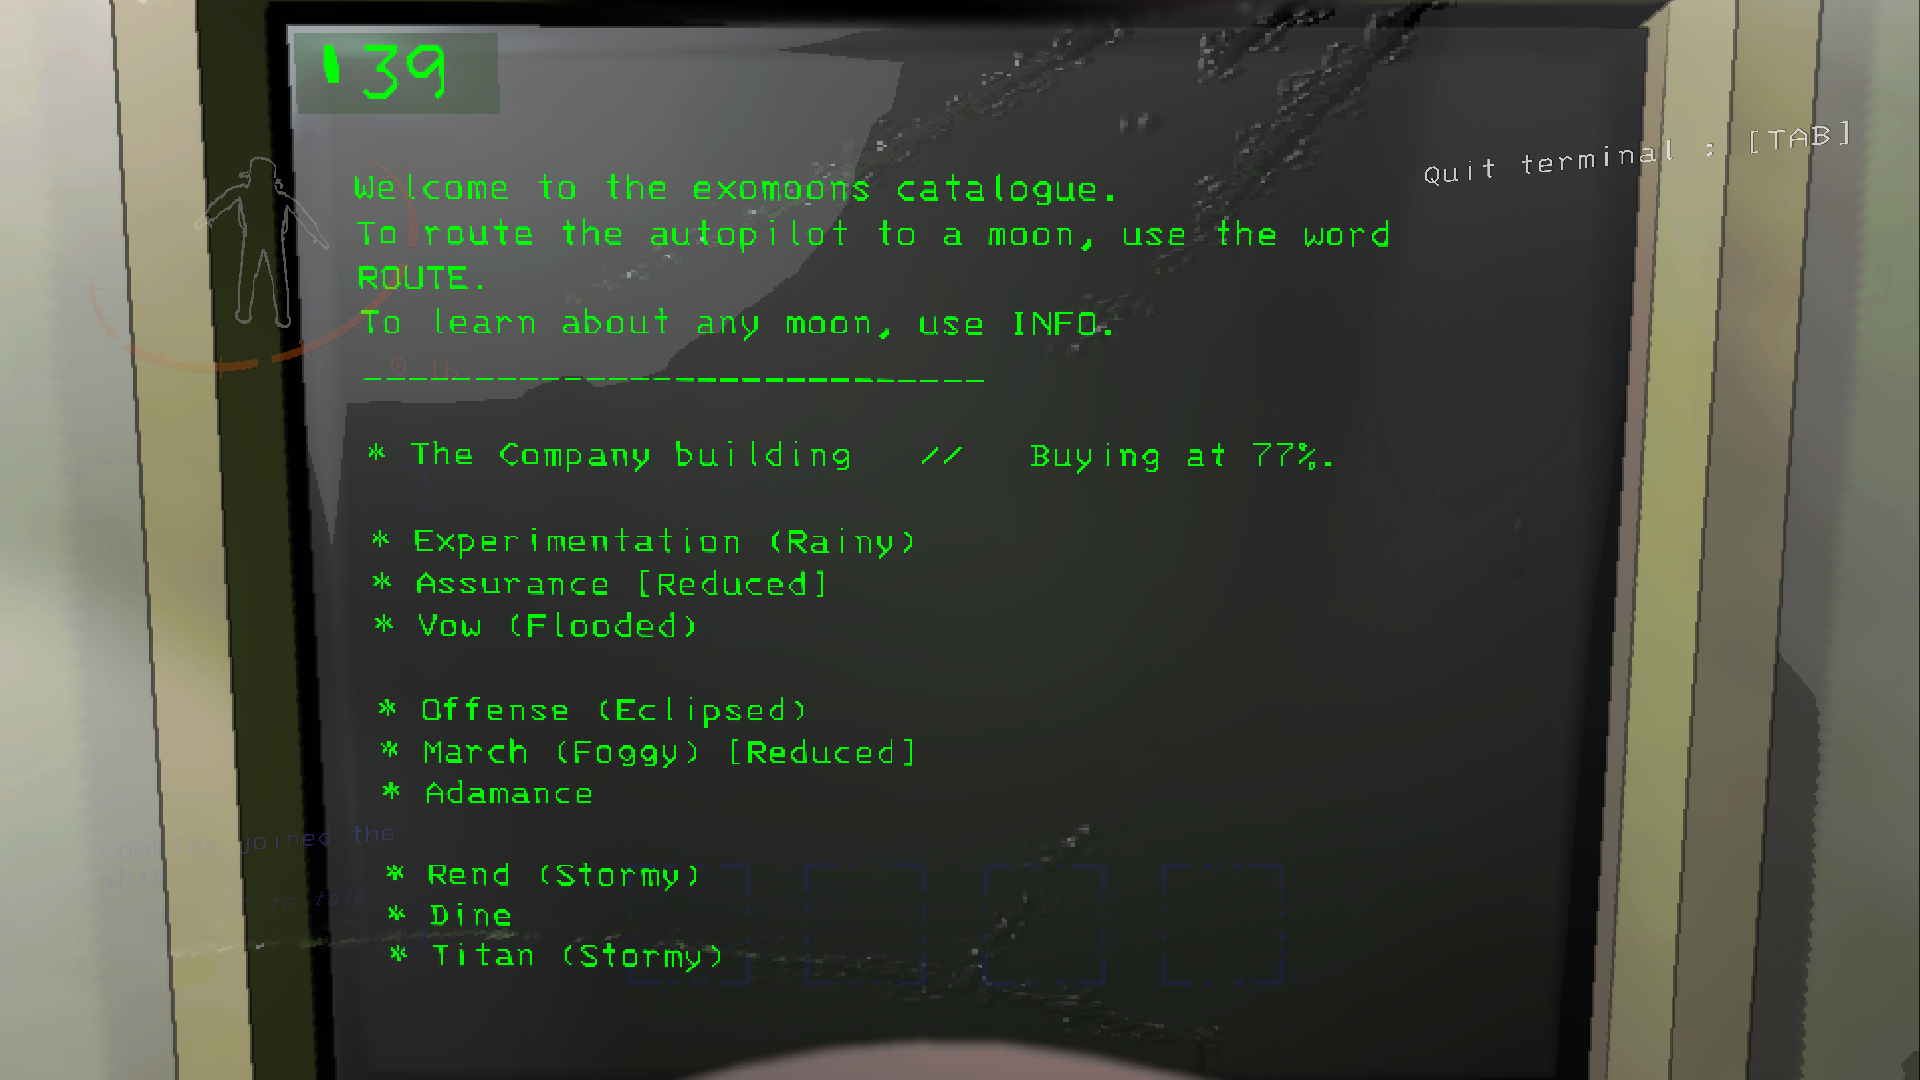
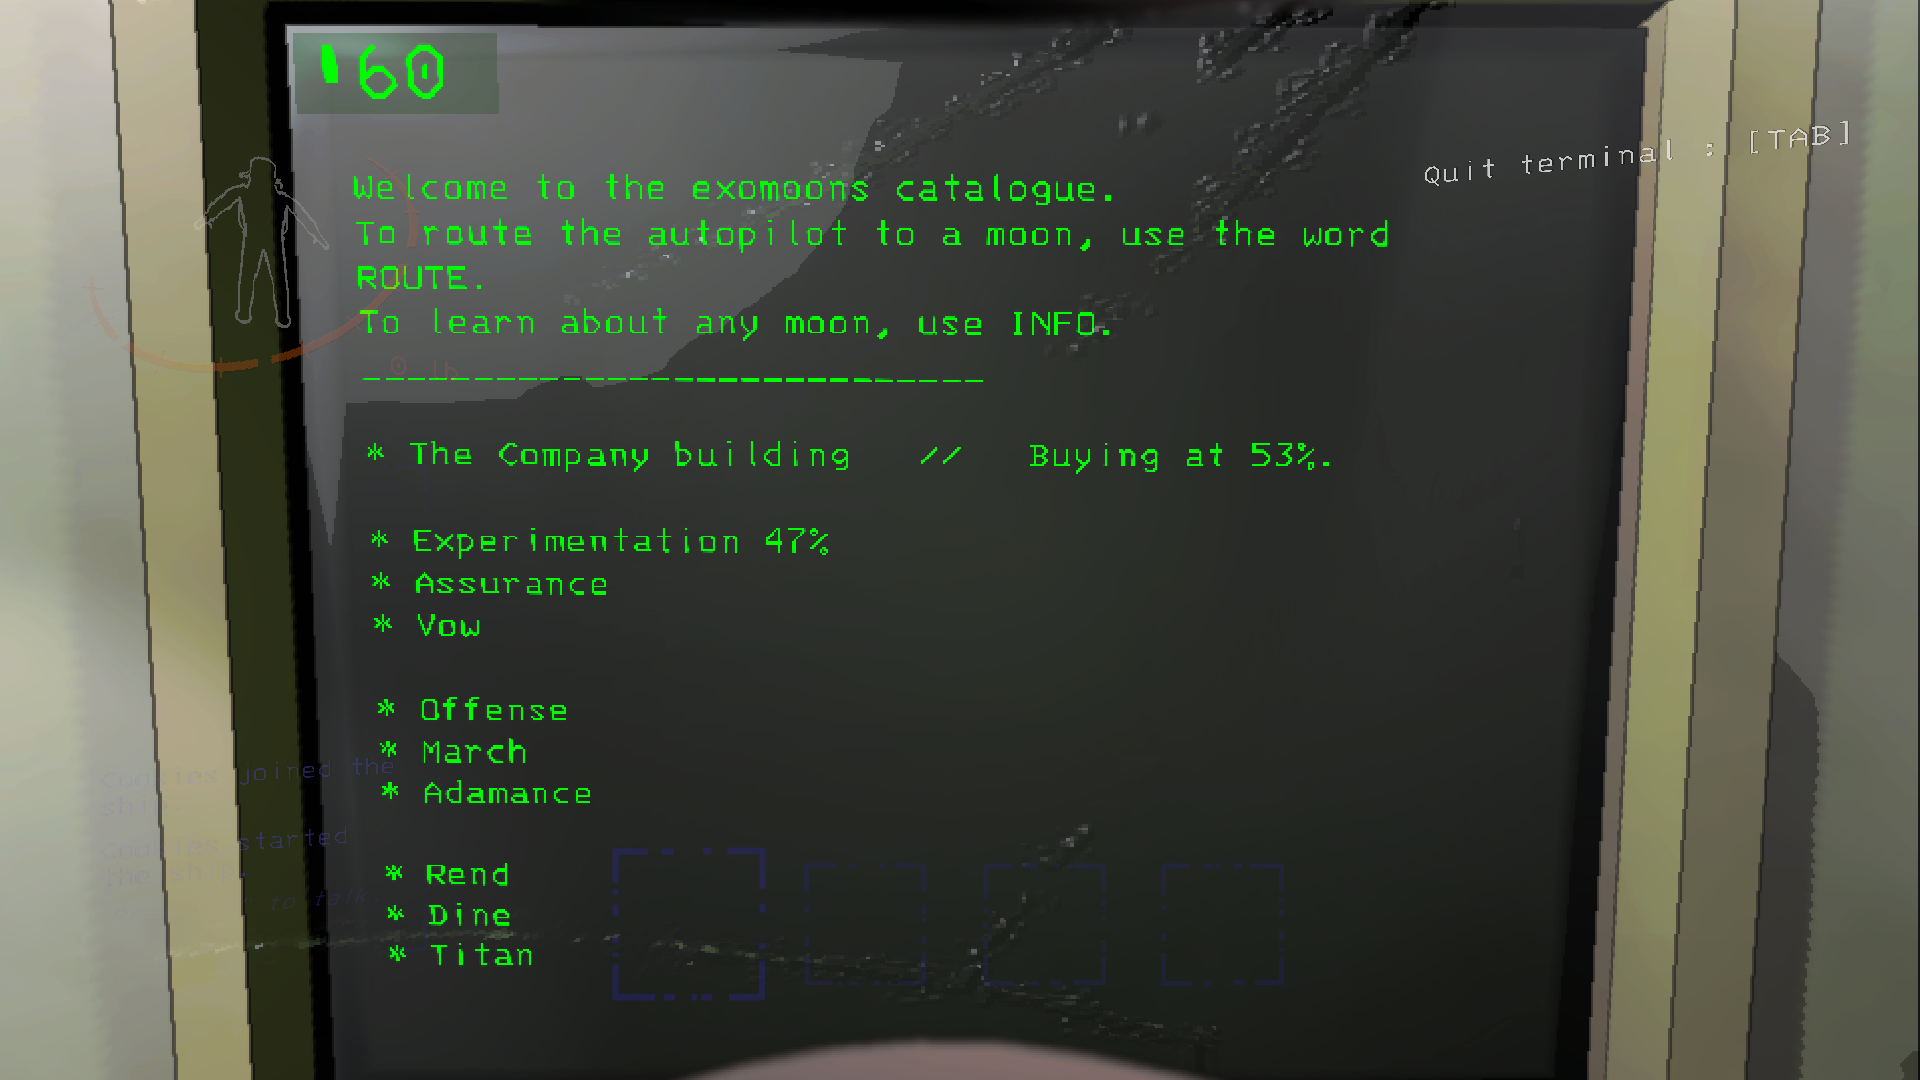
I probably shouldn't commit this many changes at once, huh?

diff --git a/DeminishingReturns/Patches/StartOfRoundPatch.cs b/DeminishingReturns/Patches/StartOfRoundPatch.cs
@@ -1,5 +1,9 @@
 using HarmonyLib;
 using BepInEx.Configuration;
+using System;
+using System.Collections.Generic;
+using System.Linq;
+using UnityEngine;
 
 namespace DeminishingReturns.Patches;
 
@@ -12,41 +16,42 @@ public class StartOfRoundPatch
     {
         if (__instance.IsServer && __instance.inShipPhase)
         {
-            if (DeminishingReturns.recentMoonsSave.Contains(__instance.currentLevel.levelID))
+            if (!DeminishingReturns.moonMultipliers.ContainsKey(__instance.currentLevel.levelID))
             {
-                RoundManager.Instance.scrapAmountMultiplier = Config.deminishedScrapMultiplier.Value;
+                DeminishingReturns.moonMultipliers[__instance.currentLevel.levelID] = 1.0f;
             }
-            else
-            {
-                RoundManager.Instance.scrapAmountMultiplier = 1f;
-            }
+            RoundManager.Instance.scrapAmountMultiplier = DeminishingReturns.moonMultipliers[__instance.currentLevel.levelID];
         }
     }
 
     [HarmonyPatch("EndOfGame")]
     [HarmonyPrefix]
-    private static void recordRecentMoons(StartOfRound __instance)
+    private static void setMoonMultipliers(StartOfRound __instance)
     {
         if (__instance.IsServer)
         {
-            if (__instance.currentLevel.PlanetName == "71 Gordion")
+            if (__instance.currentLevel.planetHasTime)
             {
-                DeminishingReturns.Logger.LogDebug("Not marking this moon as recent because it is the company building");
-            }
-            else
-            {
-                DeminishingReturns.recentMoonsSave.Enqueue(__instance.currentLevel.levelID);
-            }
-            while (DeminishingReturns.recentMoonsSave.Count > Config.recentMoonCount.Value)
-            {
-                DeminishingReturns.recentMoonsSave.Dequeue();
+                var keys = DeminishingReturns.moonMultipliers.Keys.ToList();
+                foreach (var key in keys)
+                {
+                    var value = DeminishingReturns.moonMultipliers[key];
+                    value += Config.dailyRegen.Value;
+                    value = Mathf.Clamp(value, 0.0f, 1.0f);
+                    DeminishingReturns.moonMultipliers[key] = value;
+                }
+                if (!__instance.allPlayersDead)
+                {
+                    DeminishingReturns.moonMultipliers[__instance.currentLevel.levelID] -= (float)RoundManager.Instance.valueOfFoundScrapItems / RoundManager.Instance.totalScrapValueInLevel;
+                    DeminishingReturns.moonMultipliers[__instance.currentLevel.levelID] = Mathf.Clamp(DeminishingReturns.moonMultipliers[__instance.currentLevel.levelID], 0.0f, 1.0f);
+                }
             }
             if (Config.resetAfterQuota.Value && ((float)(TimeOfDay.Instance.profitQuota - TimeOfDay.Instance.quotaFulfilled) <= 0f || __instance.isChallengeFile))
             {
-                DeminishingReturns.recentMoonsSave.Clear();
-                DeminishingReturns.Logger.LogDebug("Cleared recent moons list");
+                DeminishingReturns.moonMultipliers.Clear();
+                DeminishingReturns.Logger.LogDebug("Cleared moon multipliers");
             }
-            DeminishingReturns.recentMoons.Value = DeminishingReturns.recentMoonsSave;
+            DeminishingReturns.moonMultipliersNet.Value = DeminishingReturns.moonMultipliers; //This triggers a sync for the network variable
         }
     }
 }

diff --git a/DeminishingReturns/Patches/TerminalPatch.cs b/DeminishingReturns/Patches/TerminalPatch.cs
@@ -16,26 +16,10 @@ public class TerminalPatch
             Regex regex = new Regex(Regex.Escape("[planetTime]"));
             for (int i = 0; i < num && __instance.moonsCatalogueList.Length > i; i++)
             {
-                string replacement = ((GameNetworkManager.Instance.isDemo && __instance.moonsCatalogueList[i].lockedForDemo) ? "(Locked)" : ((__instance.moonsCatalogueList[i].currentWeather != LevelWeatherType.None) ? ("(" + __instance.moonsCatalogueList[i].currentWeather.ToString() + ")") : "") + ((DeminishingReturns.recentMoons.Value.Contains(__instance.moonsCatalogueList[i].levelID)) ? "[Reduced]" : ""));
-                replacement = replacement.Replace(")[", ") [");
+                float multiplier = DeminishingReturns.moonMultipliers.ContainsKey(__instance.moonsCatalogueList[i].levelID) ? DeminishingReturns.moonMultipliers[__instance.moonsCatalogueList[i].levelID] : 1.0f;
+                string replacement = ((GameNetworkManager.Instance.isDemo && __instance.moonsCatalogueList[i].lockedForDemo) ? "(Locked)" : ((__instance.moonsCatalogueList[i].currentWeather != LevelWeatherType.None) ? ("(" + __instance.moonsCatalogueList[i].currentWeather.ToString() + ") ") : "") + (multiplier < 1.0 ? string.Format("{0:N0}%", multiplier * 100.0) : ""));
                 modifiedDisplayText = regex.Replace(modifiedDisplayText, replacement, 1);
             }
-        }
-        try
-        {
-            if (node.displayPlanetInfo != -1)
-            {
-                string replacement = ((StartOfRound.Instance.levels[node.displayPlanetInfo].currentWeather != LevelWeatherType.None) ? (StartOfRound.Instance.levels[node.displayPlanetInfo].currentWeather.ToString().ToLower() ?? "") : "mild weather");
-                modifiedDisplayText = modifiedDisplayText.Replace("[currentPlanetTime]", replacement);
-                if (DeminishingReturns.recentMoons.Value.Contains(StartOfRound.Instance.levels[node.displayPlanetInfo].levelID))
-                {
-                    modifiedDisplayText = modifiedDisplayText.Insert(modifiedDisplayText.LastIndexOf('\n', modifiedDisplayText.Length - 4), "\nThis moon has been visited recently; expect less scrap.\n");
-                }
-            }
-        }
-        catch
-        {
-            DeminishingReturns.Logger.LogDebug($"Exception occured on terminal while setting node planet info; current node displayPlanetInfo:{node.displayPlanetInfo}");
         }
     }
 }

diff --git a/DeminishingReturns/DeminishingReturns.cs b/DeminishingReturns/DeminishingReturns.cs
@@ -16,6 +16,7 @@ namespace DeminishingReturns;
 [LobbyCompatibility(CompatibilityLevel.Everyone, VersionStrictness.Minor)]
 [BepInDependency("MaxWasUnavailable.LethalModDataLib", BepInDependency.DependencyFlags.HardDependency)]
 [BepInDependency("LethalNetworkAPI", BepInDependency.DependencyFlags.HardDependency)]
+[BepInDependency("imabatby.lethallevelloader", BepInDependency.DependencyFlags.SoftDependency)]
 public class DeminishingReturns : BaseUnityPlugin
 {
     public static DeminishingReturns Instance { get; private set; } = null!;
@@ -25,8 +26,8 @@ public class DeminishingReturns : BaseUnityPlugin
     public static Config MyConfig { get; internal set; }
 
     [ModData(SaveWhen.OnAutoSave, LoadWhen.OnLoad, SaveLocation.CurrentSave, ResetWhen.OnGameOver)]
-    public static Queue<int> recentMoonsSave = new Queue<int>();
-    public static LethalNetworkVariable<Queue<int>> recentMoons = new LethalNetworkVariable<Queue<int>>(identifier: "recentMoons") { Value = recentMoonsSave };
+    public static Dictionary<int, float> moonMultipliers = new Dictionary<int, float>();
+    public static LethalNetworkVariable<Dictionary<int, float>> moonMultipliersNet = new LethalNetworkVariable<Dictionary<int, float>>(identifier: "moonMultipliers") { Value = moonMultipliers };
 
     private void Awake()
     {
@@ -34,16 +35,10 @@ public class DeminishingReturns : BaseUnityPlugin
         Instance = this;
 
         MyConfig = new(base.Config);
-        recentMoons.OnValueChanged += NewValue;
 
         Patch();
 
         Logger.LogInfo($"{MyPluginInfo.PLUGIN_GUID} v{MyPluginInfo.PLUGIN_VERSION} has loaded!");
-    }
-
-    private void NewValue(Queue<int> newValue)
-    {
-        Logger.LogDebug("Synced!");
     }
 
     internal static void Patch()
@@ -53,6 +48,11 @@ public class DeminishingReturns : BaseUnityPlugin
         Logger.LogDebug("Patching...");
 
         Harmony.PatchAll();
+
+        if (BepInEx.Bootstrap.Chainloader.PluginInfos.ContainsKey("imabatby.lethallevelloader"))
+        {
+            Patches.LLLTerminalPatch.Init();
+        }
 
         Logger.LogDebug("Finished patching!");
     }

diff --git a/DeminishingReturns/Config.cs b/DeminishingReturns/Config.cs
@@ -2,29 +2,22 @@ using BepInEx.Configuration;
 
 public class Config
 {
-        public static ConfigEntry<float> deminishedScrapMultiplier;
-        public static ConfigEntry<int> recentMoonCount;
         public static ConfigEntry<bool> resetAfterQuota;
+        public static ConfigEntry<float> dailyRegen;
 
         public Config(ConfigFile cfg)
         {
-                deminishedScrapMultiplier = cfg.Bind(
-                        "General",
-                        "DeminishedScrapMultiplier",
-                        0.5f,
-                        "Multiplier for scrap amounts on deminished moons"
-                );
-                recentMoonCount = cfg.Bind(
-                        "General",
-                        "RecentMoonCount",
-                        3,
-                        "How many days before a recent moon is \"forgotten\""
-                );
                 resetAfterQuota = cfg.Bind(
                         "General",
                         "ResetAfterQuota",
                         true,
-                        "If the recent moons list should be cleared after a quota cycle"
+                        "Reset all scrap reduction after each quota cycle"
+                );
+                dailyRegen = cfg.Bind(
+                        "General",
+                        "DailyRegen",
+                        0.25f,
+                        "How much of a moon's multiplier should be restored each day"
                 );
         }
 }

diff --git a/DeminishingReturns/Patches/LLLTerminalPatch.cs b/DeminishingReturns/Patches/LLLTerminalPatch.cs
@@ -1,0 +1,21 @@
+using HarmonyLib;
+using LethalLevelLoader;
+
+namespace DeminishingReturns.Patches;
+
+public class LLLTerminalPatch
+{
+    internal static void Init()
+    {
+        DeminishingReturns.Harmony.Patch(
+          AccessTools.Method(typeof(LethalLevelLoader.TerminalManager), "GetWeatherConditions"),
+          postfix: new HarmonyMethod(typeof(Patches.LLLTerminalPatch), "addDeminishedWarning")
+        );
+    }
+
+    private static void addDeminishedWarning(ExtendedLevel extendedLevel, ref string __result)
+    {
+        float multiplier = DeminishingReturns.moonMultipliers.ContainsKey(extendedLevel.SelectableLevel.levelID) ? DeminishingReturns.moonMultipliers[extendedLevel.SelectableLevel.levelID] : 1.0f;
+        __result = __result + (multiplier < 1.0 ? string.Format("{0:N0}%", multiplier * 100.0) : "");
+    }
+}

diff --git a/README.md b/README.md
@@ -1,13 +1,15 @@
 # Deminishing Returns
 
-This mod, which I apparently spelled wrong, is a mod that punishes players for going to the same few moons. Any moons which have been visited recently will have a reduced amount of scrap.
+This mod, which I apparently spelled wrong, is a mod that punishes players for going to the same moons too frequently. When leaving a moon, its scrap multiplier will be reduced based on how much scrap you've collected.
 
 ![Catalog](https://raw.githubusercontent.com/coookies369/DeminishingReturns/main/Images/Catalog.png)
 
-*Note: Currently the terminal will not show which moons are reduced if Termnal Formatter or Lethal Level Loader is installed. I don't know how to fix this. Send help.*
+## Compatibility
+
+The mod is now compatible with LethalLevelLoader. It is not compatible with TerminalFormatter, but it will work anyway if LethalLevelLoader is also installed.
+This mod is incompatible with other mods that have scrap multipliers, such as MeteoMultiplier.
 
 ## Configs
 
-* **DeminishedScrapMultiplier:** Multiplier for scrap amounts on deminished moons. *Default: 0.5*
-* **RecentMoonCount:** How many days before a recent moon is "forgotten". *Default: 3*
-* **ResetAfterQuota:** If the recent moons list should be cleared after a quota cycle. *Default: true*
+* **ResetAfterQuota:** If scrap reductions on moons should be reset after each quota cycle. *Default: true*
+* **dailyRegen:** How much each moons scrap reduction should recover each day. *Default: 0.25*

diff --git a/Thunderstore/README.md b/Thunderstore/README.md
@@ -1,13 +1,15 @@
 # Deminishing Returns
 
-This mod, which I apparently spelled wrong, is a mod that punishes players for going to the same few moons. Any moons which have been visited recently will have a reduced amount of scrap.
+This mod, which I apparently spelled wrong, is a mod that punishes players for going to the same moons too frequently. When leaving a moon, its scrap multiplier will be reduced based on how much scrap you've collected.
 
 ![Catalog](https://raw.githubusercontent.com/coookies369/DeminishingReturns/main/Images/Catalog.png)
 
-*Note: Currently the terminal will not show which moons are reduced if Termnal Formatter or Lethal Level Loader is installed. I don't know how to fix this. Send help.*
+## Compatibility
+
+The mod is now compatible with LethalLevelLoader. It is not compatible with TerminalFormatter, but it will work anyway if LethalLevelLoader is also installed.
+This mod is incompatible with other mods that have scrap multipliers, such as MeteoMultiplier.
 
 ## Configs
 
-* **DeminishedScrapMultiplier:** Multiplier for scrap amounts on deminished moons. *Default: 0.5*
-* **RecentMoonCount:** How many days before a recent moon is "forgotten". *Default: 3*
-* **ResetAfterQuota:** If the recent moons list should be cleared after a quota cycle. *Default: true*
+* **ResetAfterQuota:** If scrap reductions on moons should be reset after each quota cycle. *Default: true*
+* **dailyRegen:** How much each moons scrap reduction should recover each day. *Default: 0.25*
